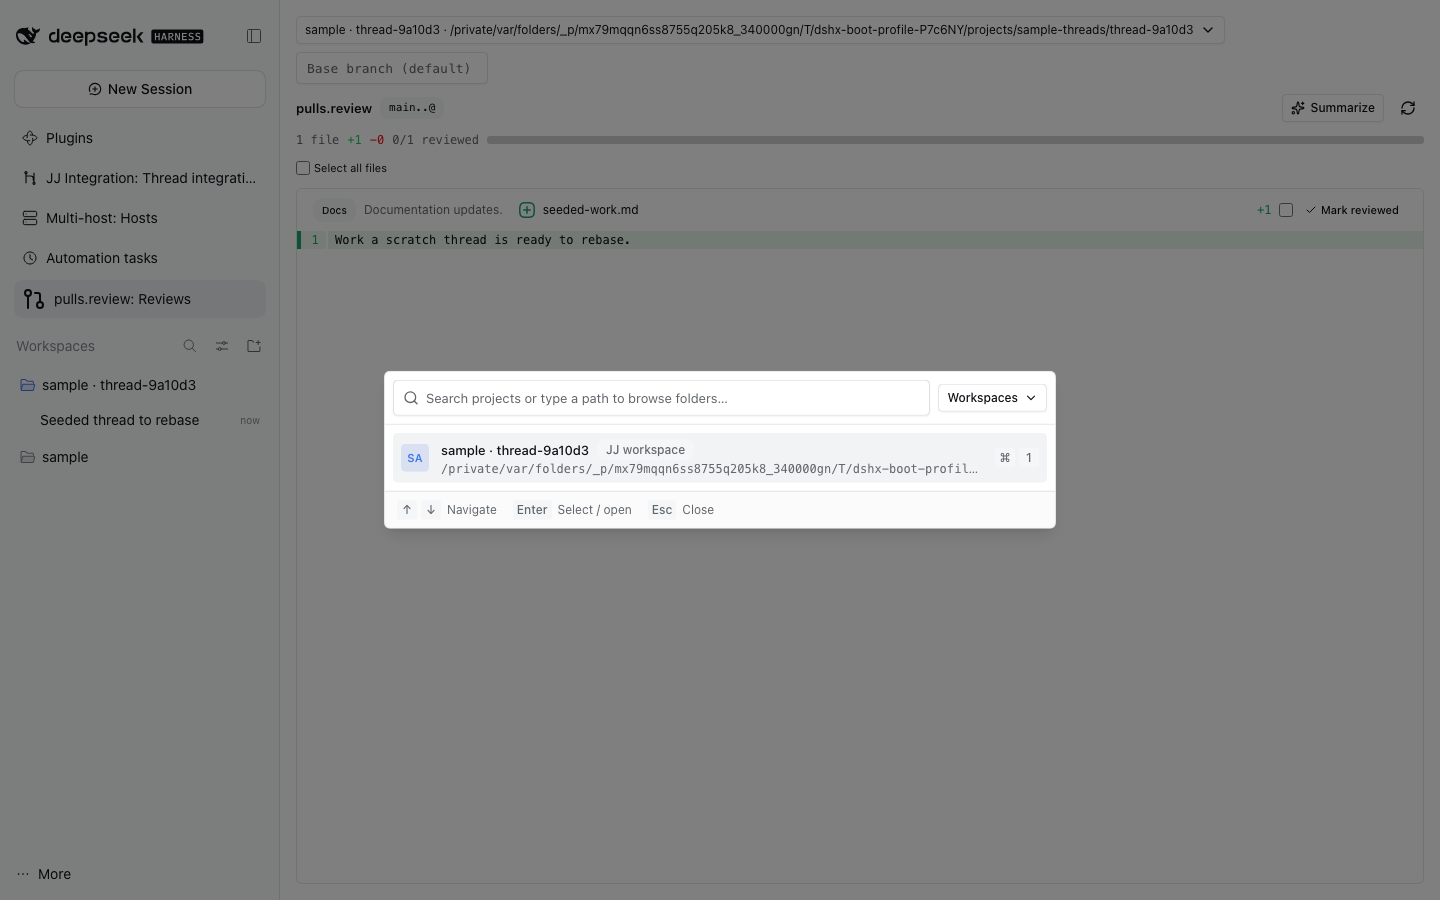
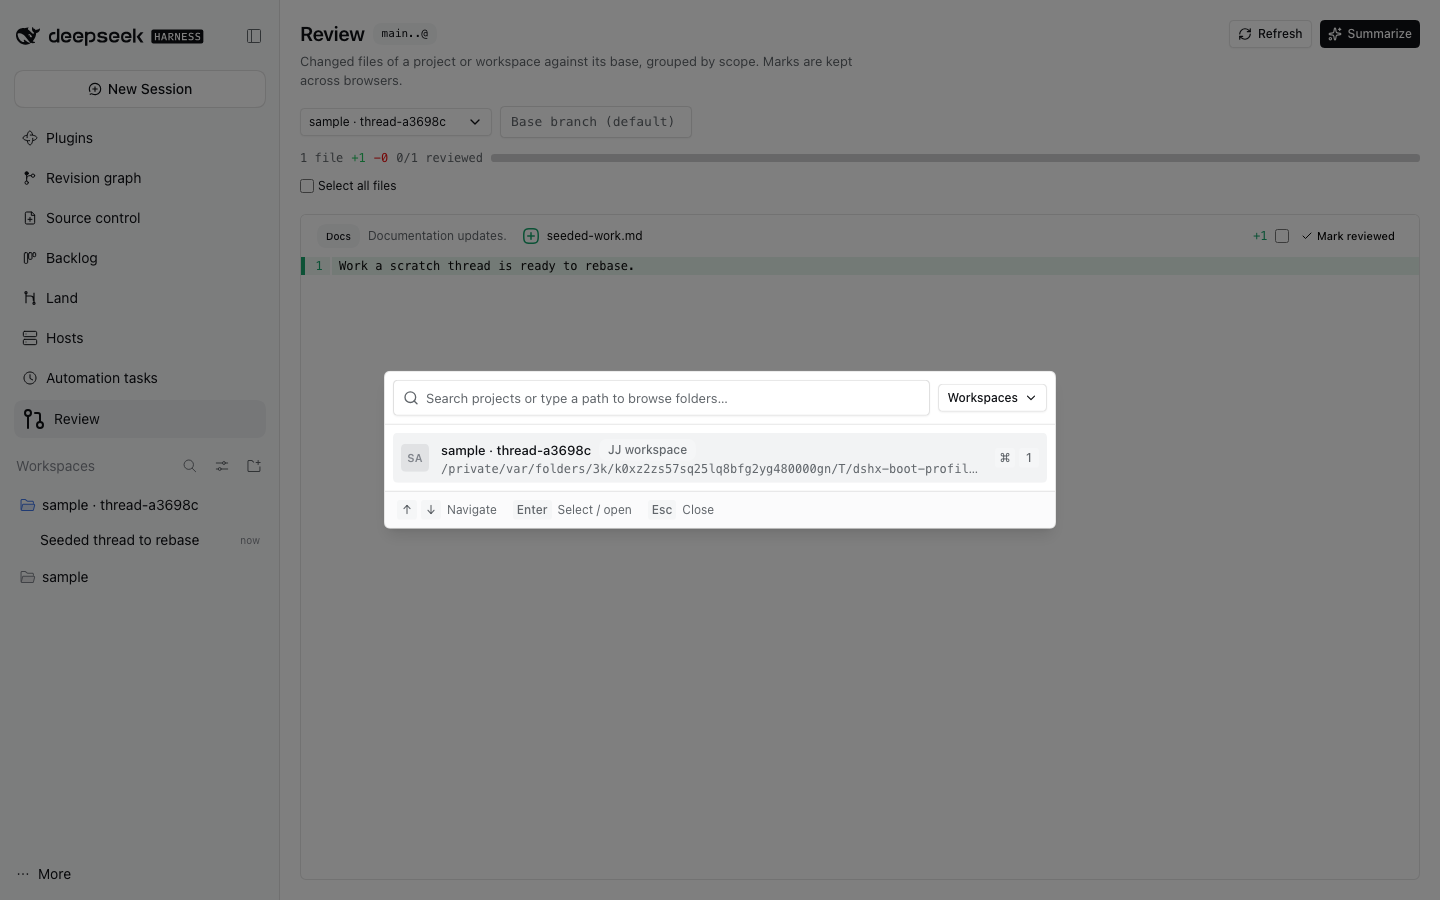
refactor(pulls-review): build the Review page on the page kit
Phase 1b of the ADE plan: the panel gets the shared Page header (Review,
range chip, Summarize as the one primary action, Refresh in the overflow-capable
actions) instead of a bare pulls.review h2, kit EmptyStates for no selection and
no changes, and Try again on every read or summarize failure. The project
picker names the project or workspace instead of printing its absolute path.
The virtualized diff keeps a bounded flex height below the page header, and the
pane scrolls on phones.

The navigation label pulls.review: Reviews becomes Review; catalog reach
steps, README and the pulls-review journey follow. Behaviour is unchanged.

diff --git a/plugins/@dshfiles/pulls-review/src/panel.tsx b/plugins/@dshfiles/pulls-review/src/panel.tsx
@@ -1,5 +1,6 @@
 import type { ISessions } from '@deepseek-ai/dsh-api-session-controller/client'
 import { useApi, useSubscribable, type HostStore } from '@dshfiles/dshx/client'
+import { EmptyState, Page } from '@dshfiles/plugin-ui/components/page'
 import { Badge } from '@dshfiles/plugin-ui/components/ui/badge'
 import { Button } from '@dshfiles/plugin-ui/components/ui/button'
 import { Input } from '@dshfiles/plugin-ui/components/ui/input'
@@ -85,8 +86,8 @@ export const PullsReviewPanel = (props: PullsReviewPanelProps): ReactNode => {
     selectedProject === undefined
       ? reviewPath === ''
         ? 'Choose project or workspace'
-        : `Other folder · ${reviewPath}`
-      : `${selectedProject.title} · ${selectedProject.canonicalPath}`
+        : `Other folder · ${reviewPath.split('/').filter(Boolean).at(-1) ?? reviewPath}`
+      : selectedProject.title
 
   const query = useQuery({
     queryKey: ['pulls-review', reviewPath, baseRef],
@@ -188,13 +189,21 @@ export const PullsReviewPanel = (props: PullsReviewPanelProps): ReactNode => {
     setSelection(ListSelectionModel.empty())
   }
 
+  const failure = (message: string, retry: () => void): ReactNode => (
+    <p role="alert" className="dshx:flex dshx:flex-wrap dshx:items-center dshx:gap-2 dshx:text-xs dshx:text-destructive">
+      <span className="dshx:min-w-0">{message}</span>
+      <Button size="xs" variant="outline" onClick={retry}>
+        Try again
+      </Button>
+    </p>
+  )
   const footer = ((): ReactNode => {
-    if (reviewPath.length === 0) return <p className={HINT}>Choose a project or workspace to review.</p>
+    if (reviewPath.length === 0) return null
     if (query.isPending) return <p className={HINT}>Reading the workspace diff…</p>
-    if (query.isError) return <p className="dshx:text-xs dshx:text-destructive">{errorMessage(query.error, 'The workspace diff could not be read.')}</p>
+    if (query.isError) return failure(errorMessage(query.error, 'The workspace diff could not be read.'), () => void query.refetch())
     if (result === undefined) return null
-    if (result.status === 'failed') return <p className="dshx:text-xs dshx:text-destructive">{result.message}</p>
-    if (summarize.isError) return <p className="dshx:text-xs dshx:text-destructive">{errorMessage(summarize.error, 'Summarizing failed.')}</p>
+    if (result.status === 'failed') return failure(result.message, () => void query.refetch())
+    if (summarize.isError) return failure(errorMessage(summarize.error, 'Summarizing failed.'), () => summarize.mutate())
     if (summarized?.status === 'failed') return <p className={HINT}>{summarized.message}</p>
     if (summarize.isPending)
       return (
@@ -211,13 +220,38 @@ export const PullsReviewPanel = (props: PullsReviewPanelProps): ReactNode => {
     return null
   })()
 
+  const canSummarize = result?.status === 'ok' && result.fileCount > 0 && scopes.length > 0
+
   return (
-    <section className="dshx-root dshx:@container dshx:flex dshx:size-full dshx:min-h-0 dshx:flex-col dshx:gap-3 dshx:p-4">
-      <header className="dshx:flex dshx:flex-col dshx:gap-2">
+    <div className="dshx-root dshx:@container dshx:flex dshx:size-full dshx:min-h-0 dshx:flex-col dshx:overflow-y-auto">
+      <Page
+        heading="Review"
+        description="Changed files of a project or workspace against its base, grouped by scope. Marks are kept across browsers."
+        meta={
+          result?.status === 'ok' ? (
+            <Badge variant="secondary" className="dshx:font-mono dshx:text-[11px]">
+              {result.range}
+            </Badge>
+          ) : undefined
+        }
+        {...(canSummarize
+          ? {
+              primaryAction: {
+                id: 'summarize',
+                label: aiSummaries === undefined ? 'Summarize' : 'Re-summarize',
+                icon: <Sparkles aria-hidden className="dshx:size-3.5" />,
+                onSelect: () => summarize.mutate(),
+                pending: summarize.isPending,
+              },
+            }
+          : {})}
+        actions={[{ id: 'refresh', label: 'Refresh', icon: <RefreshCw aria-hidden />, onSelect: () => void query.refetch(), pending: query.isFetching }]}
+        className="dshx:shrink-0"
+      >
         <div className="dshx:flex dshx:flex-wrap dshx:items-center dshx:gap-2">
           <Button
             aria-label="Choose project or workspace"
-            className="dshx:min-w-48 dshx:max-w-full dshx:justify-between dshx:font-normal"
+            className="dshx:min-w-48 dshx:max-w-full dshx:shrink dshx:justify-between dshx:font-normal"
             onClick={() => setPickerOpen(true)}
             size="sm"
             type="button"
@@ -247,26 +281,8 @@ export const PullsReviewPanel = (props: PullsReviewPanelProps): ReactNode => {
             placeholder="Base branch (default)"
             value={baseRef}
             onChange={event => setBaseRef(event.target.value)}
-            className="dshx:w-48 dshx:font-mono!"
+            className="dshx:w-48 dshx:max-w-full dshx:font-mono!"
           />
-        </div>
-        <div className="dshx:flex dshx:items-center dshx:gap-2">
-          <h2 className="dshx:text-sm dshx:font-semibold">pulls.review</h2>
-          {result?.status === 'ok' ? (
-            <Badge variant="secondary" className="dshx:font-mono dshx:text-[11px]">
-              {result.range}
-            </Badge>
-          ) : null}
-          <span className="dshx:ml-auto" />
-          {result?.status === 'ok' && result.fileCount > 0 && scopes.length > 0 ? (
-            <Button variant="outline" size="sm" disabled={summarize.isPending} onClick={() => summarize.mutate()} className="dshx:gap-1.5 dshx:shrink">
-              <Sparkles aria-hidden className={cn('dshx:size-3.5', summarize.isPending && 'dshx:animate-pulse')} />
-              {aiSummaries === undefined ? 'Summarize' : 'Re-summarize'}
-            </Button>
-          ) : null}
-          <Button variant="ghost" size="icon" aria-label="Refresh" disabled={query.isFetching} onClick={() => void query.refetch()}>
-            <RefreshCw aria-hidden className={cn(query.isFetching && 'dshx:animate-spin')} />
-          </Button>
         </div>
         {result?.status === 'ok' ? (
           <div className="dshx:flex dshx:flex-wrap dshx:items-center dshx:gap-2">
@@ -278,45 +294,62 @@ export const PullsReviewPanel = (props: PullsReviewPanelProps): ReactNode => {
           </div>
         ) : null}
         {result?.status === 'ok' && result.truncated ? (
-          <p className={HINT}>The diff was too large for one read and is truncated; refresh after the workspace settles.</p>
+          <p className={HINT}>The diff was too large for one read and is truncated; refresh once the thread stops writing to the workspace.</p>
         ) : null}
-      </header>
 
-      {footer}
+        {footer}
 
-      {result?.status === 'ok' && result.fileCount === 0 ? <p className={HINT}>This thread has no changes since {result.base} yet.</p> : null}
+        {reviewPath.length === 0 ? (
+          <div className={SURFACE}>
+            <EmptyState action={{ label: 'Choose project or workspace', onSelect: () => setPickerOpen(true) }}>
+              Choose a project or workspace to review its changes.
+            </EmptyState>
+          </div>
+        ) : null}
+        {result?.status === 'ok' && result.fileCount === 0 ? (
+          <div className={SURFACE}>
+            <EmptyState>This thread has no changes since {result.base} yet.</EmptyState>
+          </div>
+        ) : null}
 
-      {allPaths.length > 0 ? (
-        <div className="dshx:flex dshx:flex-wrap dshx:items-center dshx:gap-2 dshx:text-[11px]">
-          <label className="dshx:flex dshx:items-center dshx:gap-1">
-            <input
-              type="checkbox"
-              aria-label="Select all files in this review"
-              checked={ListSelectionModel.isComplete({ state: selection, orderedIds: allPaths })}
-              onChange={() => setSelection(current => ListSelectionModel.toggleAllVisible({ state: current, orderedIds: allPaths }))}
-              className="dshx:size-3.5 dshx:accent-[var(--color-info)]"
-            />
-            Select all files
-          </label>
-          {selection.ids.length === 0 ? null : (
-            <span className="dshx:ml-auto dshx:flex dshx:flex-wrap dshx:items-center dshx:gap-1">
-              <span className="dshx:mr-1 dshx:tabular-nums">{selection.ids.length} selected</span>
-              <Button size="xs" variant="secondary" onClick={() => applyReviewed(true)}>
-                Mark selected reviewed
-              </Button>
-              <Button size="xs" variant="ghost" onClick={() => applyReviewed(false)}>
-                Mark selected unreviewed
-              </Button>
-              <Button size="xs" variant="ghost" onClick={() => setSelection(ListSelectionModel.empty())}>
-                Clear
-              </Button>
-            </span>
-          )}
-        </div>
-      ) : null}
+        {allPaths.length > 0 ? (
+          <div className="dshx:flex dshx:flex-wrap dshx:items-center dshx:gap-2 dshx:text-xs">
+            <label className="dshx:flex dshx:items-center dshx:gap-1">
+              <input
+                type="checkbox"
+                aria-label="Select all files in this review"
+                checked={ListSelectionModel.isComplete({ state: selection, orderedIds: allPaths })}
+                onChange={() => setSelection(current => ListSelectionModel.toggleAllVisible({ state: current, orderedIds: allPaths }))}
+                className="dshx:size-3.5 dshx:accent-[var(--color-info)]"
+              />
+              Select all files
+            </label>
+            {selection.ids.length === 0 ? null : (
+              <span className="dshx:ml-auto dshx:flex dshx:flex-wrap dshx:items-center dshx:gap-1">
+                <span className="dshx:mr-1 dshx:tabular-nums">{selection.ids.length} selected</span>
+                <Button size="xs" variant="outline" onClick={() => applyReviewed(true)}>
+                  Mark selected reviewed
+                </Button>
+                <Button size="xs" variant="ghost" onClick={() => applyReviewed(false)}>
+                  Mark selected unreviewed
+                </Button>
+                <Button size="xs" variant="ghost" onClick={() => setSelection(ListSelectionModel.empty())}>
+                  Clear
+                </Button>
+              </span>
+            )}
+          </div>
+        ) : null}
+      </Page>
 
       {scopes.length > 0 ? (
-        <div data-testid="pulls-review-diffs" className={cn(SURFACE, 'dshx:flex dshx:min-h-0 dshx:flex-1 dshx:flex-col dshx:overflow-hidden')}>
+        <div
+          data-testid="pulls-review-diffs"
+          className={cn(
+            SURFACE,
+            'dshx:mx-5 dshx:mb-5 dshx:flex dshx:min-h-64 dshx:flex-1 dshx:flex-col dshx:overflow-hidden dshx:@max-pane-narrow:mx-3 dshx:@max-pane-narrow:mb-3',
+          )}
+        >
           <PatchView
             files={reviewFiles}
             className="dshx:flex-1"
@@ -367,6 +400,6 @@ export const PullsReviewPanel = (props: PullsReviewPanelProps): ReactNode => {
           />
         </div>
       ) : null}
-    </section>
+    </div>
   )
 }

diff --git a/plugins/@dshfiles/thread-sidebar/src/destinations.ts b/plugins/@dshfiles/thread-sidebar/src/destinations.ts
@@ -67,7 +67,7 @@ export const KNOWN_SECTIONS: readonly DestinationSection[] = [
   { panelId: 'dshfiles-thread-board', destination: 'threads', label: 'Board', description: 'The same threads as columns.', formerLabels: ['Thread Sidebar: Board'] },
   { panelId: 'attention-inbox', destination: 'inbox', label: 'Needs you', description: 'Questions, approvals and failures waiting on you.', formerLabels: ['Inbox'] },
   { panelId: 'jj-integration', destination: 'land', label: 'Workspaces', description: 'Thread workspaces ready, blocked or behind.', order: 1, formerLabels: ['JJ Integration: Thread integration'] },
-  { panelId: 'pulls-review', destination: 'land', label: 'Review', description: 'Review a workspace before landing it.', order: 2, formerLabels: ['pulls.review: Reviews'] },
+  { panelId: 'pulls-review', destination: 'land', label: 'Review', description: 'Review a workspace before landing it.', order: 2, formerLabels: ['pulls.review: Reviews', 'Review'] },
   { panelId: 'dshfiles-jujutsu', destination: 'land', label: 'History', description: 'The revision graph of a project.', order: 3, formerLabels: ['Jujutsu: Revision graph'] },
   { panelId: 'dshfiles-jujutsu-source-control', destination: 'land', label: 'Source control', description: 'Working-copy changes and commits.', order: 4, formerLabels: ['Jujutsu: Source Control'] },
   { panelId: 'dshfiles-backlog-panel', destination: 'work', label: 'Backlog', description: 'Tasks, bugs, ideas and notes.', order: 1, formerLabels: ['Backlog: Items'] },

diff --git a/tooling/dshx/e2e/support/plugin-journeys/pulls-review.steps.ts b/tooling/dshx/e2e/support/plugin-journeys/pulls-review.steps.ts
@@ -13,15 +13,17 @@ const THREAD_CHANGES = [
 ]
 
 When('the pulls.review panel is opened from the sidebar', async ({ page }: { page: Page }) => {
-  await openGlobalPanel(page, 'pulls.review: Reviews')
-  await expect(page.getByRole('heading', { name: 'pulls.review', exact: true })).toBeVisible()
+  await openGlobalPanel(page, 'Review')
+  await expect(page.getByRole('heading', { name: 'Review', exact: true })).toBeVisible()
 })
 
 Then('the pulls.review panel reads the thread workspace against {string}', async ({ page }: { page: Page }, base: string) => {
   await recordAssertion(page, 'pulls-review-reads-thread-workspace', async () => {
     const projectPicker = page.getByRole('button', { name: 'Choose project or workspace', exact: true })
     await expect(projectPicker).toBeVisible()
-    await expect(projectPicker).toContainText(threadWorkspacePathFor(page))
+    // The picker names the project or workspace; the absolute path stays out of the label.
+    await expect(projectPicker).toContainText(threadWorkspacePathFor(page).split('/').filter(Boolean).at(-1) ?? '')
+    await expect(projectPicker).not.toContainText(threadWorkspacePathFor(page))
     const baseSelector = page.getByRole('textbox', { name: 'Base branch or bookmark', exact: true })
     await expect(baseSelector).toBeVisible()
     await baseSelector.fill(base)

diff --git a/plugins/@dshfiles/pulls-review/src/client.tsx b/plugins/@dshfiles/pulls-review/src/client.tsx
@@ -35,7 +35,7 @@ export default defineClientPlugin({
         if (legacy.success && Object.keys(reviewed.get()).length === 0) reviewed.set(legacy.data)
       })
       .catch((error: unknown) => console.warn('pulls.review: reviewed marks stay unsaved until the Host storage answers.', error))
-    api.ui.register({ name: 'sidebar.panellist', id: PANEL_ID, order: 40, label: 'pulls.review: Reviews' }, () => <GitPullRequest aria-hidden />)
+    api.ui.register({ name: 'sidebar.panellist', id: PANEL_ID, order: 40, label: 'Review' }, () => <GitPullRequest aria-hidden />)
     api.provide(Changes, {
       review: input => {
         PageReviewContextModel.set({ workspacePath: input.workspacePath, sessionId: input.sessionId })

diff --git a/plugins/@dshfiles/thread-sidebar/src/moved-to.generated.ts b/plugins/@dshfiles/thread-sidebar/src/moved-to.generated.ts
@@ -23,8 +23,8 @@ export const FORMER_NAVIGATION: readonly FormerNavigationEntry[] = [
   { entry: 'MCP Servers: Servers', destinations: ['settings'] },
   { entry: 'Memory', destinations: ['knowledge'] },
   { entry: 'Messages', destinations: ['agents'] },
-  { entry: 'pulls.review: Reviews', destinations: ['thread-panel'] },
   { entry: 'Resource Packs: Resources', destinations: ['knowledge'] },
+  { entry: 'Review', destinations: ['thread-panel'] },
   { entry: 'Secrets', destinations: ['settings'] },
   { entry: 'Thread Sidebar: Board', destinations: ['threads'] },
   { entry: 'Traces: Explorer', destinations: ['inbox', 'observe'] },

diff --git a/tooling/dshx/e2e/support/plugin-view-names.ts b/tooling/dshx/e2e/support/plugin-view-names.ts
@@ -98,6 +98,8 @@ const railLocations = new Map<string, { readonly destination: string; readonly s
   ['Messages', { destination: 'Agents', section: 'Messages' }],
   ['Memory', { destination: 'Knowledge', section: 'Memory' }],
   ['Secrets', { destination: 'Settings', section: 'Secrets' }],
+  // Plain labels the page-kit migration (plans/ade-ux Phase 1b) gave these pages.
+  ['Review', { destination: 'Land', section: 'Review' }],
 ])
 
 const destinationTabs = (page: Page): Locator => page.getByRole('tablist', { name: 'Destinations', exact: true })

diff --git a/plans/ade-ux/migration-map.md b/plans/ade-ux/migration-map.md
@@ -47,8 +47,8 @@ Every entry of today's Navigation list and where its features go. No entry survi
 | MCP Servers: Servers | Settings | mcp-servers/batch-server-actions → Settings (rowAction)<br>mcp-servers/oauth-authorization → Settings (settingsSection)<br>mcp-servers/registry-catalog → Settings (settingsSection)<br>mcp-servers/server-configuration → Settings (settingsSection) |
 | Memory | Knowledge | memory/batch-forget-notes → Knowledge (rowAction)<br>memory/memory-panel → Knowledge (destinationSection)<br>memory/usage-telemetry → Knowledge (destinationSection) |
 | Messages | Agents | agent-communication/agent-directory → Agents (destinationSection)<br>agent-communication/human-browser → Agents (destinationSection)<br>agent-communication/passive-messaging → Agents (destinationSection) |
-| pulls.review: Reviews | Thread panel | pulls-review/ai-scope-summaries → Thread panel (threadFacet)<br>pulls-review/batch-reviewed-marks → Thread panel (threadFacet)<br>pulls-review/thread-review-scopes → Thread panel (threadFacet) |
 | Resource Packs: Resources | Knowledge | resource-packs/local-properties → Knowledge (destinationSection) |
+| Review | Thread panel | pulls-review/ai-scope-summaries → Thread panel (threadFacet)<br>pulls-review/batch-reviewed-marks → Thread panel (threadFacet)<br>pulls-review/thread-review-scopes → Thread panel (threadFacet) |
 | Secrets | Settings | secret-catalog/alias-mutations → Settings (settingsSection)<br>secret-catalog/bounded-secret-reveal → Settings (settingsSection)<br>secret-catalog/inline-quick-add → Settings (settingsSection)<br>secret-catalog/scoped-alias-catalog → Settings (settingsSection) |
 | Thread Sidebar: Board | Threads | thread-sidebar/thread-classification → Threads (destinationSection) |
 | Traces: Explorer | Inbox, Observe | traces/alert-rules → Inbox (attentionProvider)<br>traces/boards-and-saved-views → Observe (destinationSection)<br>traces/log-explorer → Observe (destinationSection)<br>traces/metric-charts → Observe (destinationSection)<br>traces/service-map → Observe (destinationSection)<br>traces/trace-explorer → Observe (destinationSection)<br>traces/trace-insights → Observe (destinationSection) |
@@ -313,9 +313,9 @@ facets of the active thread; 17 features.
 | preview/preview-browser: Agent preview browser | threadFacet | agent tool: preview_open / preview_screenshot |
 | preview/thread-dev-servers: Thread dev servers | threadFacet | thread-header: Dev servers and previews |
 | project-checks/native-hook-receipts: Show native hook invocation records | threadFacet | composer: Project checks › hook events |
-| pulls-review/ai-scope-summaries: Summarize review scopes with the thread's own model | threadFacet | left-nav: pulls.review: Reviews › Summarize |
-| pulls-review/batch-reviewed-marks: Mark a selection of changed files reviewed | threadFacet | left-nav: pulls.review: Reviews › reviewed marks |
-| pulls-review/thread-review-scopes: Review project and workspace changes by scope | threadFacet | left-nav: pulls.review: Reviews |
+| pulls-review/ai-scope-summaries: Summarize review scopes with the thread's own model | threadFacet | left-nav: Review › Summarize |
+| pulls-review/batch-reviewed-marks: Mark a selection of changed files reviewed | threadFacet | left-nav: Review › reviewed marks |
+| pulls-review/thread-review-scopes: Review project and workspace changes by scope | threadFacet | left-nav: Review |
 | traces/span-cost: List-price cost on traces | threadFacet | conversation-view: Traces tab › cost |
 | traces/thread-traces-tab: Per-thread Traces tab | threadFacet | conversation-view: Traces / Requests tabs |
 | workbench/terminal-pages: Open native terminals from any pane's view chooser | threadFacet | main-tabs: New tab › Terminal: Terminal |

diff --git a/plugins/@dshfiles/pulls-review/README.md b/plugins/@dshfiles/pulls-review/README.md
@@ -10,7 +10,7 @@ The searchable project picker keeps existing thread workspaces in their own scop
 
 ![Project and workspace picker](docs/screenshots/project-workspace-picker.png)
 
-Open the reusable **pulls.review: Reviews** view from navigation or the Workbench chooser.
+Open the reusable **Review** view from navigation or the Workbench chooser.
 
 ## What it does
 
